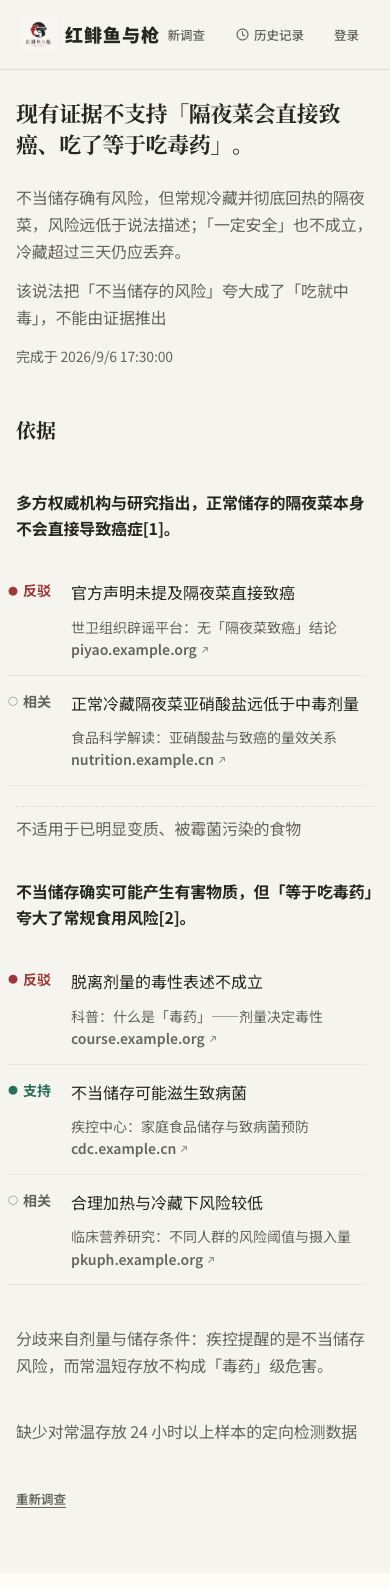
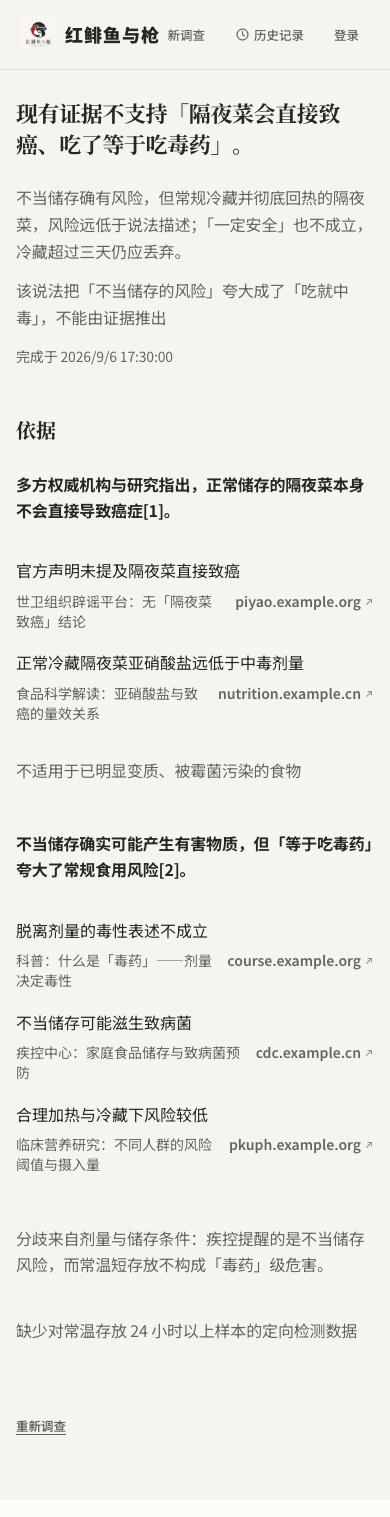
fix(golden-path): 完成态按文章读，关系标签退出阅读列
判断和论点是正文。片段是收据，出处是一行小字。
反驳/支持/相关只留在来源抽屉里。

diff --git a/mvp/src/goldenPath/golden-path.css b/mvp/src/goldenPath/golden-path.css
@@ -1320,7 +1320,7 @@
 
 .gp-canvas[data-gp-phase="complete"] .gp-evidence-excerpt {
   order: -1;
-  margin: 0 0 8px;
+  margin: 0 0 4px;
   padding: 0;
   border: 0;
   font-family: var(--gp-font);
@@ -1345,8 +1345,7 @@
 }
 
 .gp-canvas[data-gp-phase="complete"] .gp-evidence-relation {
-  font-size: 14px;
-  min-width: 3.5em;
+  display: none;
 }
 
 .gp-canvas[data-gp-phase="complete"] .gp-evidence-domain {
@@ -1361,10 +1360,31 @@
   font-size: 16px;
 }
 
+.gp-canvas[data-gp-phase="complete"] .gp-boundary {
+  border-top: 0;
+  padding-top: 0;
+  margin-top: 8px;
+}
+
 .gp-canvas[data-gp-phase="complete"] .gp-evidence-item {
-  padding: 14px 0;
-  gap: 14px;
+  display: block;
+  padding: 8px 0 10px;
+  margin: 0;
+  border: 0;
   min-height: 44px;
+  text-align: left;
+}
+
+.gp-canvas[data-gp-phase="complete"] .gp-evidence-item + .gp-evidence-item {
+  border-top: 0;
+}
+
+.gp-canvas[data-gp-phase="complete"] .gp-claim + .gp-claim {
+  margin-top: 28px;
+}
+
+.gp-canvas[data-gp-phase="complete"] .gp-evidence-space {
+  padding-left: 0;
 }
 
 .gp-canvas[data-gp-phase="complete"] [data-gp-hero-meta="claims"],
@@ -1390,9 +1410,10 @@
 }
 
 .gp-canvas[data-gp-phase="complete"] .gp-evidence-header {
-  flex-direction: column;
-  align-items: flex-start;
-  gap: 2px;
+  flex-direction: row;
+  flex-wrap: wrap;
+  align-items: baseline;
+  gap: 6px 10px;
 }
 
 .gp-canvas[data-gp-phase="complete"] .gp-conflict,
@@ -1411,7 +1432,7 @@
 }
 
 .gp-point {
-  margin: 18px 0 8px;
+  margin: 0 0 10px;
   font-size: 16px;
   font-weight: 650;
   line-height: 1.65;

diff --git a/mvp/src/goldenPath/goldenPath.test.tsx b/mvp/src/goldenPath/goldenPath.test.tsx
@@ -2302,6 +2302,7 @@ describe("结果页 P0/P1：调查备忘录视觉", () => {
     expect(css).toMatch(/data-gp-hero-meta="claims"[\s\S]*display:\s*none/);
     expect(css).toMatch(/data-gp-phase="complete"\] \.gp-original\s*\{[^}]*display:\s*none/);
     expect(css).toMatch(/data-gp-phase="complete"\] \.gp-claim-head\s*\{[^}]*display:\s*none/);
+    expect(css).toMatch(/data-gp-phase="complete"\] \.gp-evidence-relation\s*\{[^}]*display:\s*none/);
     const point = document.querySelector(".gp-point");
     if (point) {
       expect(point.compareDocumentPosition(document.querySelector("[data-gp-evidence-excerpt]")!) & Node.DOCUMENT_POSITION_FOLLOWING).toBeTruthy();

diff --git a/docs/evals/2026-09-11-result-ux.md b/docs/evals/2026-09-11-result-ux.md
@@ -1,0 +1,34 @@
+# 结果页：问题定义和体验
+
+## 人要干什么
+
+拿来一句话，问它站不站得住。读完要带走两件事：判断，以及可以点开核对的材料。不要带走一份分类档案。
+
+## 现在错在哪
+
+完成态把调查内核的字段摊成表：每行「反驳 / 支持 / 相关」+ 片段 + 标题 + 域名。那是数据库导出。眼睛被关系标签和分割线拽着走，读不成论证。
+
+顶尖同类产品不是这样排的。
+
+- Snopes / PolitiFact / AFP：先判断，中间是文章，来源在文末 Sources。
+- 腾讯较真：流传说法 → 查证要点（论点）→ 结论 → 参考文献。
+- Perplexity：回答是正文，`[1]` 打开来源面板。关系不进阅读列。
+
+共同点：论证是文章。来源是脚注。分类（真/假、支持/反驳）不是每一行的骨架。
+
+## 体验（完成态）
+
+1. 判断：一句回答，必要的解释和限制。
+2. 依据：按论点读。每段先是整理过的那句话（finding），下面是收据（片段）和出处（一行、小字）。
+3. 点收据或出处，打开原来的来源抽屉。抽屉里才写这条材料对命题是反驳、支持还是相关。
+4. 分歧、缺口各用一句接在相应论点后面。
+
+调查中仍按「找到了哪页」来读。那是过程，不是结果。
+
+## Change / Not this / Evaluator
+
+Change：完成态阅读列不再出现「反驳 / 支持 / 相关」标签和彩色圆点。依据按论点分段，片段是收据，出处一行。
+
+Not this：不编 finding。不把关系从抽屉里删掉。不拆证据 DOM 身份。
+
+Evaluator：完成态截图阅读列无「反驳」「支持」「相关」；finding 在片段前；点片段仍打开抽屉。`goldenPath.test.tsx` 既有摘录诚实、identity、抽屉关系仍绿。

diff --git a/docs/NOTES.md b/docs/NOTES.md
@@ -1,5 +1,7 @@
 # 当前状态
 
+2026-09-11 结果页体验写清并落地（`docs/evals/2026-09-11-result-ux.md`）：完成态阅读列不再出现反驳/支持/相关。对照 Snopes、较真、Perplexity——论证是文章，来源是脚注。门禁 1174 过。未合并未部署。
+
 2026-09-11 结果页按论证读（契约 `docs/evals/2026-09-11-result-is-an-argument.md`）：完成态是判断 → 论点句（finding）→ 片段收据 → 出处。争点/缺口/命题限制收成句子，不当章节。调查中仍按「找到了哪页」。门禁 1174 过。未合并未部署。
 
 2026-09-11 结果页依据是片段不是标题（契约 `docs/evals/2026-09-11-evidence-is-the-snippet.md`）：完成态每条先读检索片段 16px，出处标题 14px 辅文。实测 excerpt 在 title 上方。门禁 1174 过。未合并未部署。
